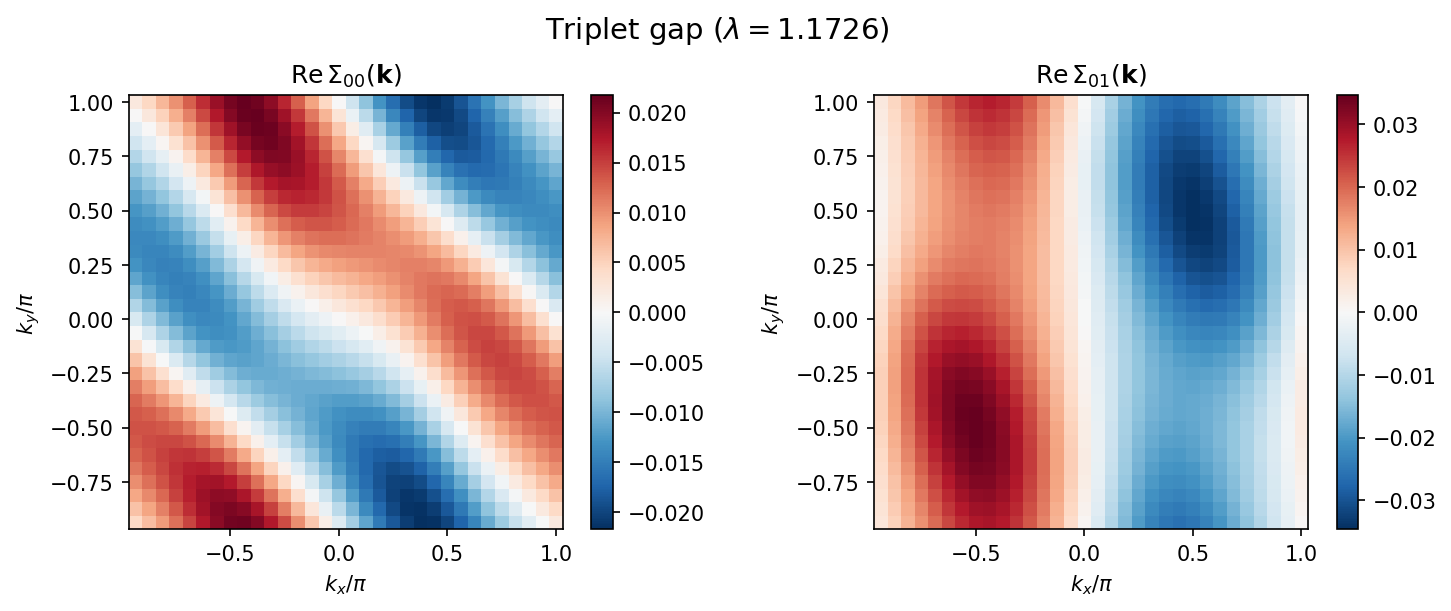
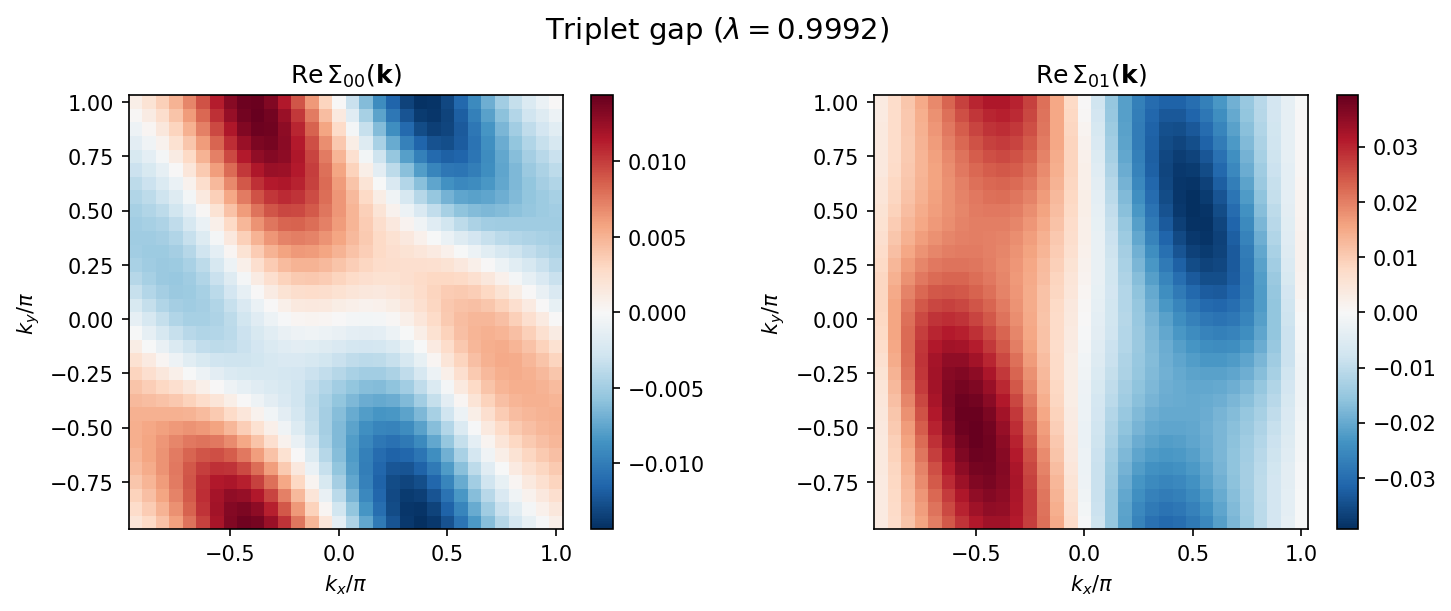
docs: document orbital_site; declare the sites in the two-orbital tutorials (#234)
The configuration reference (EN/JA) describes orbital_site and which paths
it affects. The FLEX two-orbital tutorials declare both orbitals on one
atom (orbital_site = [0, 0]; outputs unchanged, no warning). The
superconductivity tutorial declares its two molecules as different sites
(orbital_site = [0, 1]); its in-cell inter-molecule interaction now enters
through its Hartree part only, as in the reference paper, and the logs,
eigenvalues (lambda_S ~ 0.94, lambda_T ~ 1.00), figures and discussion are
regenerated from a run on this branch.

Claude-Session: https://claude.ai/code/session_01JCrdiHddENw4ebnjgUmKce

diff --git a/docs/en/source/rpa/tutorial/sc-index.rst b/docs/en/source/rpa/tutorial/sc-index.rst
@@ -380,12 +380,12 @@ The output log shows the iteration progress:
 .. code-block:: text
 
     hwave_sc: === Self-consistent iteration ===
-    hwave_sc: Iteration    0: eigenvalue = 1.162617, diff = 1.165271e+00
-    hwave_sc: Iteration    1: eigenvalue = 0.345822, diff = 5.558347e-01
+    hwave_sc: Iteration    0: eigenvalue = 0.909443, diff = 5.659296e-01
+    hwave_sc: Iteration    1: eigenvalue = 0.699373, diff = 8.679877e-02
     ...
-    hwave_sc: Iteration  607: eigenvalue = 1.041844, diff = 9.792150e-06
-    hwave_sc: Converged at iteration 608
-    hwave_sc: Iteration result: eigenvalue = 1.041844, converged = True, n_iter = 608
+    hwave_sc: Iteration  132: eigenvalue = 0.942845, diff = 9.971819e-06
+    hwave_sc: Converged at iteration 133
+    hwave_sc: Iteration result: eigenvalue = 0.942845, converged = True, n_iter = 133
 
 followed by the eigenvalue analysis:
 
@@ -393,14 +393,14 @@ followed by the eigenvalue analysis:
 
     hwave_sc: === Eigenvalue analysis ===
     hwave_sc: Leading eigenvalues:
-    hwave_sc:     0: 1.041844 (|ev| = 1.041844)
-    hwave_sc:     1: -1.233988 (|ev| = 1.233988)
-    hwave_sc:     2: -1.584929 (|ev| = 1.585014)
-    hwave_sc:     3: -1.584929 (|ev| = 1.585014)
-    hwave_sc:     4: -3.067559 (|ev| = 3.067559)
-    hwave_sc:     5: 1.031822 (|ev| = 1.031822)  [opposite-parity sector]
-    hwave_sc:     6: -0.902492 (|ev| = 0.902505)  [opposite-parity sector]
-    hwave_sc:     7: -1.280675 (|ev| = 1.280675)  [opposite-parity sector]
+    hwave_sc:     0: 0.942845 (|ev| = 0.942845)
+    hwave_sc:     1: 0.790190 (|ev| = 0.790190)
+    hwave_sc:     2: -0.962522 (|ev| = 0.962522)
+    hwave_sc:     3: -1.120544 (|ev| = 1.120544)
+    hwave_sc:     4: -1.356804 (|ev| = 1.356804)
+    hwave_sc:     5: 0.953007 (|ev| = 0.953007)  [opposite-parity sector]
+    hwave_sc:     6: 0.794702 (|ev| = 0.794702)  [opposite-parity sector]
+    hwave_sc:     7: -0.781888 (|ev| = 0.781888)  [opposite-parity sector]
     ...
 
 An eigenvalue :math:`\lambda > 1` (positive) indicates a superconducting instability
@@ -426,7 +426,7 @@ Gap function
 The following figures show the gap function :math:`\Sigma_{\alpha\beta}(\mathbf{k})`
 in momentum space obtained from the self-consistent iteration.
 
-**Singlet channel** (:math:`\lambda \approx 1.04`):
+**Singlet channel** (:math:`\lambda \approx 0.94`):
 
 .. figure:: ../sample_sc/gap_singlet.png
    :width: 90%
@@ -435,10 +435,10 @@ in momentum space obtained from the self-consistent iteration.
    Singlet gap function in k-space. Left: intra-orbital component
    :math:`\mathrm{Re}\,\Sigma_{00}(\mathbf{k})`.
    Right: inter-orbital component :math:`\mathrm{Re}\,\Sigma_{01}(\mathbf{k})`.
-   The inter-orbital component is about 7 times larger than the intra-orbital one,
+   The inter-orbital component is about 4 times larger than the intra-orbital one,
    indicating that inter-orbital pairing is dominant.
 
-**Triplet channel** (:math:`\lambda \approx 1.17`):
+**Triplet channel** (:math:`\lambda \approx 1.00`):
 
 .. figure:: ../sample_sc/gap_triplet.png
    :width: 90%
@@ -465,25 +465,24 @@ for both singlet and triplet channels.
    The dashed red line indicates :math:`\lambda = 1` (SC instability criterion).
    Filled markers are the **physical** eigenvalues (the gap has the channel
    parity: even for singlet, odd for triplet); open markers are **spurious**
-   opposite-parity modes. The leading physical eigenvalue of each channel lies
-   above 1. The open markers are opposite-parity solutions -- even-parity modes
-   of the *triplet* kernel (the largest near 2.06) and an odd-parity mode of the
-   *singlet* kernel near 1.03 -- which the Pauli principle forbids for the
-   respective spin channel (see the parity note below).
+   opposite-parity modes. All physical eigenvalues lie below 1 (the triplet one
+   only just). The two open markers above 1 are even-parity solutions of the
+   *triplet* kernel, which the Pauli principle forbids for spin-triplet pairing
+   (see the parity note below).
 
 The Arnoldi eigenvalue analysis finds multiple eigenvalues.
 The figure shows only positive eigenvalues, which are relevant for the
 SC instability criterion :math:`\lambda = 1`.
 For the singlet channel, the leading **physical** (even-parity) eigenvalue is
-:math:`\lambda_S \approx 1.04 > 1`, matching the self-consistent iteration
-result. The iteration converges slowly here (608 iterations), which is why the
-sample sets ``max_iter = 1000``.
+:math:`\lambda_S \approx 0.94 < 1`, matching the self-consistent iteration
+result, so there is no singlet SC instability at this temperature.
 
 For the triplet channel, the leading **physical** (odd-parity) eigenvalue is
-:math:`\lambda_T \approx 1.17 > 1`. The larger values near :math:`2.06` and
-:math:`1.19` that appear in the triplet calculation are even-parity (spurious)
-modes and are **not** triplet instabilities. Both physical channels exceed 1 at
-this temperature, with the triplet leading (:math:`\lambda_T > \lambda_S`).
+:math:`\lambda_T \approx 0.999`, just below 1. The larger values near
+:math:`1.58` and :math:`1.09` that appear in the triplet calculation are
+even-parity (spurious) modes and are **not** triplet instabilities. The triplet
+leads (:math:`\lambda_T > \lambda_S`) and is at the threshold, so this
+temperature lies close to the triplet transition.
 
 Plotting script
 ^^^^^^^^^^^^^^^^^^^^^^^^^^^^^^^^
@@ -523,11 +522,11 @@ The eigenvalues of the linearized Eliashberg equation:
 .. code-block:: text
 
     # Iteration eigenvalue
-    1.04184424e+00
+    9.42845268e-01
     # Eigenvalue analysis
     # index  Re(eigenvalue)  Im(eigenvalue)  |eigenvalue|  match(1=channel-parity)
-       0  1.04184433e+00 -4.52434027e-12  1.04184433e+00 1
-       1 -1.23398808e+00  4.17379712e-12  1.23398808e+00 1
+       0  9.42844825e-01 -3.65296976e-12  9.42844825e-01 1
+       1  7.90190294e-01 -3.37474212e-12  7.90190294e-01 1
        ...
 
 The trailing ``match`` column is ``1`` when the eigenvector has the channel's
@@ -557,9 +556,10 @@ By varying the temperature and finding the point where the largest
 positive eigenvalue reaches :math:`\lambda = 1`, one can determine
 the superconducting transition temperature :math:`T_c`.
 
-In this example, at :math:`T = 0.1` both physical channels are above the
-instability threshold, with :math:`\lambda_S \approx 1.04` (singlet, even) and
-:math:`\lambda_T \approx 1.17` (triplet, odd); the triplet leads.
+In this example, at :math:`T = 0.1` both physical channels are below the
+instability threshold, with :math:`\lambda_S \approx 0.94` (singlet, even) and
+:math:`\lambda_T \approx 1.00` (triplet, odd); the triplet leads and is at the
+threshold.
 
 .. note::
 
@@ -578,7 +578,7 @@ instability threshold, with :math:`\lambda_S \approx 1.04` (singlet, even) and
    ``hwave_sc`` therefore projects each self-consistent iterate onto the
    channel's parity sector, and the eigenvalue analysis labels each mode as
    physical (``match = 1``) or spurious (``match = 0``). The large values
-   :math:`\lambda \approx 2.06,\ 1.19` seen in the triplet calculation are such
+   :math:`\lambda \approx 1.58,\ 1.09` seen in the triplet calculation are such
    spurious even-parity modes, **not** triplet instabilities.
 
 Singlet vs. triplet comparison
@@ -593,14 +593,20 @@ odd-parity (triplet) seed such as ``"p_x"`` (the ready-made
 error rather than converging to an unphysical sector. Equivalently, omit
 ``init_gap`` entirely to let the solver pick the channel's parity automatically.
 At :math:`T = 0.1` with the same parameters, the leading physical eigenvalues are
-:math:`\lambda_T \approx 1.17` (triplet) and :math:`\lambda_S \approx 1.04`
-(singlet): both exceed 1, and the triplet leads. Ref. [1]_ notes that this
-RPA treatment overestimates the superconducting region at high temperature.
-These numbers are not a quantitative reproduction of Ref. [1]_: the in-cell
-inter-molecule interaction (the ``R = 0`` inter-orbital ``CoulombInter`` row)
-enters H-wave's vertex together with its exchange crossing, as an on-site
-inter-orbital interaction would, whereas Ref. [1]_ keeps only its
-density-density (Hartree) part.
+:math:`\lambda_T \approx 1.00` (triplet) and :math:`\lambda_S \approx 0.94`
+(singlet): the triplet leads and sits at the threshold, in line with Ref. [1]_,
+where the triplet SC state competes with the singlet for :math:`T > 0.05`.
+
+The two molecules of the unit cell are different sites, which the input
+declares with ``orbital_site = [0, 1]``: their in-cell interaction (the
+``R = 0`` inter-orbital ``CoulombInter`` row) then enters, like every other
+inter-molecule interaction, through its density-density (Hartree) part only,
+as in Ref. [1]_. Without the key it would be treated as an interaction within
+one site, with its exchange crossing (see ``orbital_site`` in the
+configuration reference). The pairing vertex of ``hwave_sc`` still adds the
+exchange of the inter-cell interactions in an approximate, collapsed form
+(GitHub issue #239), so the numbers are not a quantitative reproduction of
+Ref. [1]_.
 
 
 .. _sc_dynamic_frequency:

diff --git a/docs/ja/source/rpa/filespecification/config/index_config.rst b/docs/ja/source/rpa/filespecification/config/index_config.rst
@@ -203,6 +203,41 @@ TOML形式
   exchange 配線は2つのフェルミオン運動量に依存するためこの再帰和では
   表現できず、（非スピン軌道の ladder と同様に）含まれません。
 
+- ``orbital_site``
+
+  **形式 :** 非負整数のリスト (デフォルトは指定なし)
+
+  **説明 :**
+  元の単位胞の各軌道がどのサイト（原子や分子）に属するかを指定します。
+  スピン軌道モードでは物理軌道ごとに並べます。同じラベルの軌道は同じサイトに
+  属します。\ ``hwave``\ （RPA、FLEX）と\ ``hwave_sc``\ が読み、UHF の
+  ソルバーは使いません。
+
+  ``R = 0``\ の二体項の行のうち、**異なる**\ サイトの軌道を結ぶもの（たとえば
+  単位胞を共有する二量体の2つの分子間の相互作用）はサイト間の相互作用です。
+  このキーを指定すると、そのような行は off-site の行と同じに扱われます。RPA の
+  ring、FLEX の general（バーテックスと2次）、ボンド分解しない\ ``hwave_sc``\ の
+  バーテックスでは、その密度（Hartree）部分だけが入り、交換の寄与は入りません
+  （ボンド分解しない\ ``hwave_sc``\ のバーテックスでは、\ ``R != 0``\ の行は
+  近似的に、つぶした形の交換項を引き続き与えます。GitHub issue #239 を参照）。
+  密度部分を持たない種類の行は off-site の規則に従います。異なるサイト間の
+  ``Exchange``\ と\ ``PairHop``\ は FLEX の general では拒否され、\ ``PairHop``\ は
+  RPA で警告とともに除かれ、\ ``Exchange``\ ・\ ``PairHop``\ ・\ ``PairLift``\ は
+  ``hwave_sc``\ で警告とともに除かれます。
+
+  キーを指定しない場合は全軌道が1つのサイトにあるとみなされ、\ ``R = 0``\ の
+  行はすべてオンサイト（Kanamori）として交換の寄与も含めて扱われます。これは
+  1つの原子の軌道（\ ``U'``\ 、\ ``J``\ ）には正しい扱いですが、軌道が別々の
+  サイトである場合には結果が単位胞の取り方に依存するため、キーがない場合は
+  ``R = 0``\ の軌道間の行を挙げて警告します。原子の多軌道模型では全軌道を1つの
+  サイトに宣言してください（例:\ ``orbital_site = [0, 0]``\ ）。
+
+  影響を受けないもの: ボンド分解の経路（\ ``longitudinal_bond_channels``\ 、
+  ``transverse_bond_channels``\ ）は、単位胞内のものも含めすべてのボンドの交換を
+  分解して扱います。\ ``flex_hartree_fock``\ の Hartree-Fock 自己エネルギーは
+  すべての行の交換を保持します。ボンド分解なしの\ ``calc_type = "ring+ladder"``\ は、
+  異なるサイト間の行を拒否します。
+
 - ``longitudinal_bond_channels``
 
   **形式 :** bool型 (デフォルトは\ ``false``)

diff --git a/docs/en/source/rpa/filespecification/config/index_config.rst b/docs/en/source/rpa/filespecification/config/index_config.rst
@@ -250,6 +250,45 @@ that has no effect under the current settings.
   this resummation; it remains excluded (as it is in the
   non-spin-orbital ladder).
 
+- ``orbital_site``
+
+  **Type :**
+  List of non-negative integers (default: not set)
+
+  **Description :**
+  Assigns each orbital of the original cell to a site (atom or molecule);
+  in spin-orbital mode the list runs over the physical orbitals. Orbitals
+  with the same label are on the same site. Read by ``hwave`` (RPA, FLEX)
+  and by ``hwave_sc``; the UHF solvers do not use it.
+
+  An ``R = 0`` two-body row between orbitals of DIFFERENT sites -- for
+  example the two molecules of a dimer that share a unit cell -- is an
+  inter-site interaction. With the key, such a row is treated like an
+  off-site row: in the RPA ring, the FLEX general path (vertex and second
+  order) and the non-bond ``hwave_sc`` vertex only its density (Hartree)
+  part enters, and its exchange crossing does not. (In the non-bond
+  ``hwave_sc`` vertex, ``R != 0`` rows still contribute an approximate,
+  collapsed exchange term; see GitHub issue #239.) Rows of types without a
+  density part follow the off-site rules: between different sites,
+  ``Exchange`` and ``PairHop`` are refused in FLEX general, ``PairHop`` is
+  dropped with a warning in RPA, and ``Exchange``, ``PairHop`` and
+  ``PairLift`` are dropped with a warning in ``hwave_sc``.
+
+  Without the key every orbital is taken to be on one site: every ``R = 0``
+  row gets the on-site (Kanamori) treatment, exchange crossing included.
+  That is correct for orbitals of one atom (``U'``, ``J``) but makes the
+  result depend on the choice of unit cell when the orbitals are different
+  sites, so a warning names the ``R = 0`` inter-orbital rows when the key is
+  absent; for an atomic multi-orbital model declare all orbitals on one site
+  (e.g. ``orbital_site = [0, 0]``).
+
+  Not affected: the bond-resolved paths (``longitudinal_bond_channels``,
+  ``transverse_bond_channels``), which resolve the exchange of every bond,
+  the in-cell ones included, and the Hartree-Fock self-energy of
+  ``flex_hartree_fock``, which keeps the exchange of every row.
+  ``calc_type = "ring+ladder"`` without the bond gate refuses rows between
+  different sites.
+
 - ``longitudinal_bond_channels``
 
   **Type :**
